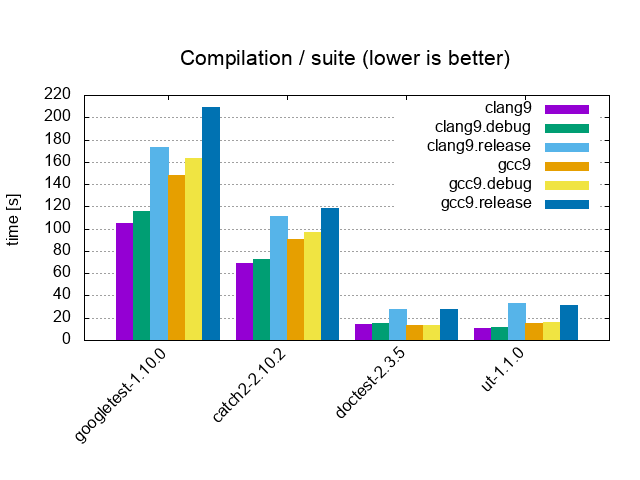
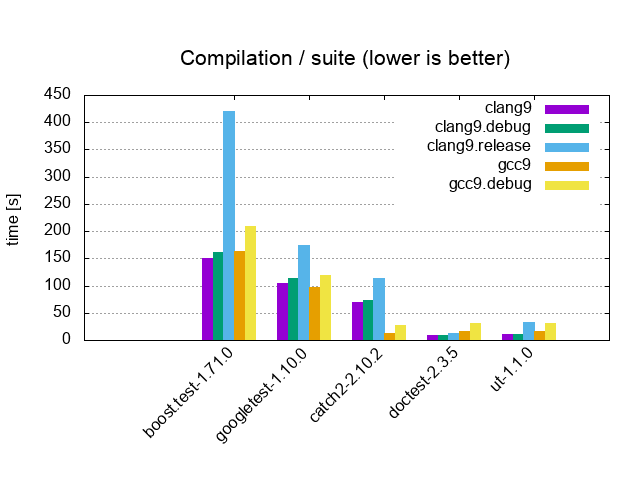
update

diff --git a/benchmarks/boost.test/assert.cpp b/benchmarks/boost.test/assert.cpp
@@ -1,3 +1,4 @@
+#define BOOST_TEST_MODULE ASSERT
 #include <boost/test/unit_test.hpp>
 
 BOOST_AUTO_TEST_CASE(assert) {

diff --git a/benchmarks/boost.test/test.cpp b/benchmarks/boost.test/test.cpp
@@ -1,3 +1,4 @@
+#define BOOST_TEST_MODULE TEST
 #include <boost/test/unit_test.hpp>
 
 BOOST_AUTO_TEST_CASE(test_1) { }

diff --git a/benchmarks/boost.test/include.cpp b/benchmarks/boost.test/include.cpp
@@ -1,1 +1,2 @@
+#define BOOST_TEST_MODULE INCLUDE
 #include <boost/test/unit_test.hpp>
